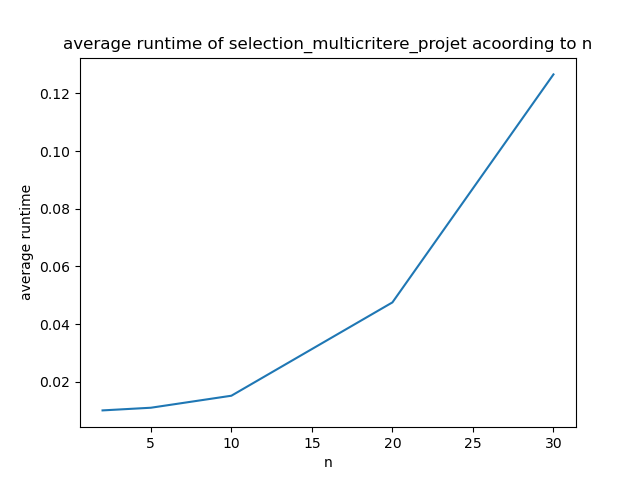
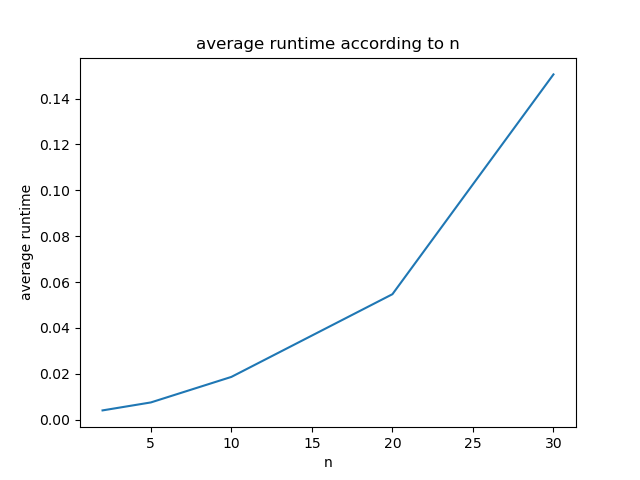
修正

diff --git a/projet/32.py b/projet/32.py
@@ -4,6 +4,7 @@ import gurobipy as gp
 import numpy as np
 from gurobipy import GRB
 
+
 def selection_multicritere_projet(c, budget, w, u):
     """
     :param c: liste des coûts des projets
@@ -13,28 +14,29 @@ def selection_multicritere_projet(c, budget, w, u):
     """
     try:
         MODEL = gp.Model("31")
-        n = len(w) # nombre d'objectif
-        p = len(c) # nombre de projet
+        n = len(w)  # nombre d'objectif
+        p = len(c)  # nombre de projet
         w_prime = [w[i] - w[i + 1] for i in range(n - 1)]
         w_prime.append(w[n - 1])
 
         # ajout des variables
-        x = MODEL.addVars(p, vtype=GRB.BINARY, name="x") # projet auquel on attribue le budget
+        x = MODEL.addVars(p, vtype=GRB.BINARY, name="x")  # projet auquel on attribue le budget
         r = MODEL.addVars(n, vtype=GRB.CONTINUOUS, lb=-GRB.INFINITY, name="r")
         b = MODEL.addVars(n, n, vtype=GRB.CONTINUOUS, lb=0, name="b")
         z = [sum(u[i][j] * x[j] for j in range(p)) for i in range(n)]
 
         # ajout des contraintes
         MODEL.update()
-        MODEL.addConstrs((x[i] <= 1 for i in range(p))) # contrainte x <= 1
-        MODEL.addConstr((gp.quicksum(c[i] * x[i] for i in range(p)) <= budget)) # contrainte de budget
+        MODEL.addConstrs((x[i] <= 1 for i in range(p)))  # contrainte x <= 1
+        MODEL.addConstr((gp.quicksum(c[i] * x[i] for i in range(p)) <= budget))  # contrainte de budget
         MODEL.addConstrs((r[k] - b[i, k] <= z[i] for i in range(n) for k in range(n)))
 
         # ajout de la fonction objectif
-        MODEL.setObjective(gp.quicksum(w_prime[k] * ((k+1) * r[k] - gp.quicksum(b[i, k] for i in range(n))) for k in range(n)),
-                        GRB.MAXIMIZE)
+        MODEL.setObjective(
+            gp.quicksum(w_prime[k] * ((k + 1) * r[k] - gp.quicksum(b[i, k] for i in range(n))) for k in range(n)),
+            GRB.MAXIMIZE)
         MODEL.optimize()
-        
+
         return MODEL.Runtime
 
     except gp.GurobiError as e:
@@ -42,6 +44,7 @@ def selection_multicritere_projet(c, budget, w, u):
 
     except AttributeError:
         print('Encountered an attribute error')
+
 
 avg_runtime_n = []
 runtime_p = {i: [] for i in [5, 10, 15, 20, 50, 75, 100]}
@@ -51,7 +54,7 @@ for n in (2, 5, 10, 20, 30):
         runtime = []
         for i in range(10):
             c = np.random.randint(0, 100, p)
-            b = c.sum()/2
+            b = c.sum() / 2
             w = random.sample(range(1, 3 * n), n)
             w.sort(reverse=True)
             u = np.random.randint(0, 100, size=(n, p))  # random matrix of size n x p
@@ -66,7 +69,6 @@ for n in (2, 5, 10, 20, 30):
 f.close()
 avg_runtime_p = [np.mean(runtime_p[i]) for i in runtime_p]
 
-
 # plot the result
 import matplotlib.pyplot as plt
 
@@ -74,22 +76,22 @@ n = [2, 5, 10, 20, 30]
 plt.plot(n, avg_runtime_n)
 plt.xlabel("n")
 plt.ylabel("average runtime")
-plt.title("average runtime of selection_multicritere_projet acoording to n")
+plt.title("average runtime according to n")
 # save as svg
 plt.savefig("32_n.png")
 plt.show()
-ratio_n = np.mean([(avg_runtime_n[i]-avg_runtime_n[i-1]) / (n[i]-n[i-1]) for i in range(1, len(n))])
+ratio_n = np.mean([(avg_runtime_n[i] - avg_runtime_n[i - 1]) / (n[i] - n[i - 1]) for i in range(1, len(n))])
 
-p= [5, 10, 15, 20, 50, 75, 100]
+p = [5, 10, 15, 20, 50, 75, 100]
 print(avg_runtime_p)
 plt.plot(p, avg_runtime_p)
 plt.xlabel("p")
 plt.ylabel("average runtime")
-plt.title("average runtime of selection_multicritere_projet acoording to p")
+plt.title("average runtime of according to p")
 # save as svg
 plt.savefig("32_p.png")
 plt.show()
 
-ratio_p = np.mean([(avg_runtime_p[i]-avg_runtime_p[i-1]) / (p[i]-p[i-1]) for i in range(1, len(p))])
+ratio_p = np.mean([(avg_runtime_p[i] - avg_runtime_p[i - 1]) / (p[i] - p[i - 1]) for i in range(1, len(p))])
 print(ratio_n)
 print(ratio_p)

diff --git a/projet/12.py b/projet/12.py
@@ -1,24 +1,29 @@
 import gurobipy as gp
 from gurobipy import GRB
 
-try:
-    MODEL = gp.Model("12")
-    z = [4, 7, 1, 3, 9, 2]
-    r = MODEL.addVar(vtype=GRB.CONTINUOUS, lb=-GRB.INFINITY, name="r")
-    b = MODEL.addVars(6, vtype=GRB.CONTINUOUS, lb=0, name="b")
-    MODEL.update()
-    MODEL.addConstrs((r - b[i] <= z[i] for i in range(6)), "z")
-    MODEL.setObjective(6*r - gp.quicksum(b), GRB.MAXIMIZE)
-    MODEL.optimize()
-    print("solution:")
-    print("r = ", r.x)
-    for i in range(6):
-        print("b[", i, "] = ", b[i].x)
-    print("objective value = ", MODEL.objVal)
+
+def dual(k: int):
+    try:
+        MODEL = gp.Model("12")
+        z = [4, 7, 1, 3, 9, 2]
+        r = MODEL.addVar(vtype=GRB.CONTINUOUS, lb=-GRB.INFINITY, name="r")
+        b = MODEL.addVars(6, vtype=GRB.CONTINUOUS, lb=0, name="b")
+        MODEL.update()
+        MODEL.addConstrs((r - b[i] <= z[i] for i in range(6)), "z")
+        MODEL.setObjective(k * r - gp.quicksum(b), GRB.MAXIMIZE)
+        MODEL.optimize()
+        print("solution:")
+        print("r = ", r.x)
+        for i in range(6):
+            print("b[", i, "] = ", b[i].x)
+        print("objective value = ", MODEL.objVal)
+
+    except gp.GurobiError as e:
+        print('Error code ' + str(e.errno) + ': ' + str(e))
+
+    except AttributeError:
+        print('Encountered an attribute error')
 
 
-except gp.GurobiError as e:
-    print('Error code ' + str(e.errno) + ': ' + str(e))
-
-except AttributeError:
-    print('Encountered an attribute error')
+for i in range(1, 7):
+    dual(i)

diff --git a/projet/21.py b/projet/21.py
@@ -34,12 +34,12 @@ def partage_equitable(n, p, w, u):
         if MODEL.status == GRB.OPTIMAL:
             print("solution:")
             for i in range(n):
-                print(f"z{i} = {z[i].getValue()}")
+                print(f"z{i + 1} = {z[i].getValue()}")
             print()
             for i in range(n):
                 for j in range(p):
                     if x[i, j].x > 0:
-                        print(f"x{i}_{j} = {x[i, j].x}", end=" ")
+                        print(f"x{i + 1}_{j + 1} = {x[i, j].x}", end=" ")
                 print()
             print("objective value = ", MODEL.objVal)
         else:
@@ -77,12 +77,12 @@ def max_satisfaction_moyenne(n, p, w, u):
         if MODEL.status == GRB.OPTIMAL:
             print("solution:")
             for i in range(n):
-                print(f"z{i} = {z[i].getValue()}")
+                print(f"z{i + 1} = {z[i].getValue()}")
             print()
             for i in range(n):
                 for j in range(p):
                     if x[i, j].x > 0:
-                        print(f"x{i}_{j} = {x[i, j].x}", end=" ")
+                        print(f"x{i + 1}_{j + 1} = {x[i, j].x}", end=" ")
                 print()
             print("objective value = ", MODEL.objVal)
         else:
